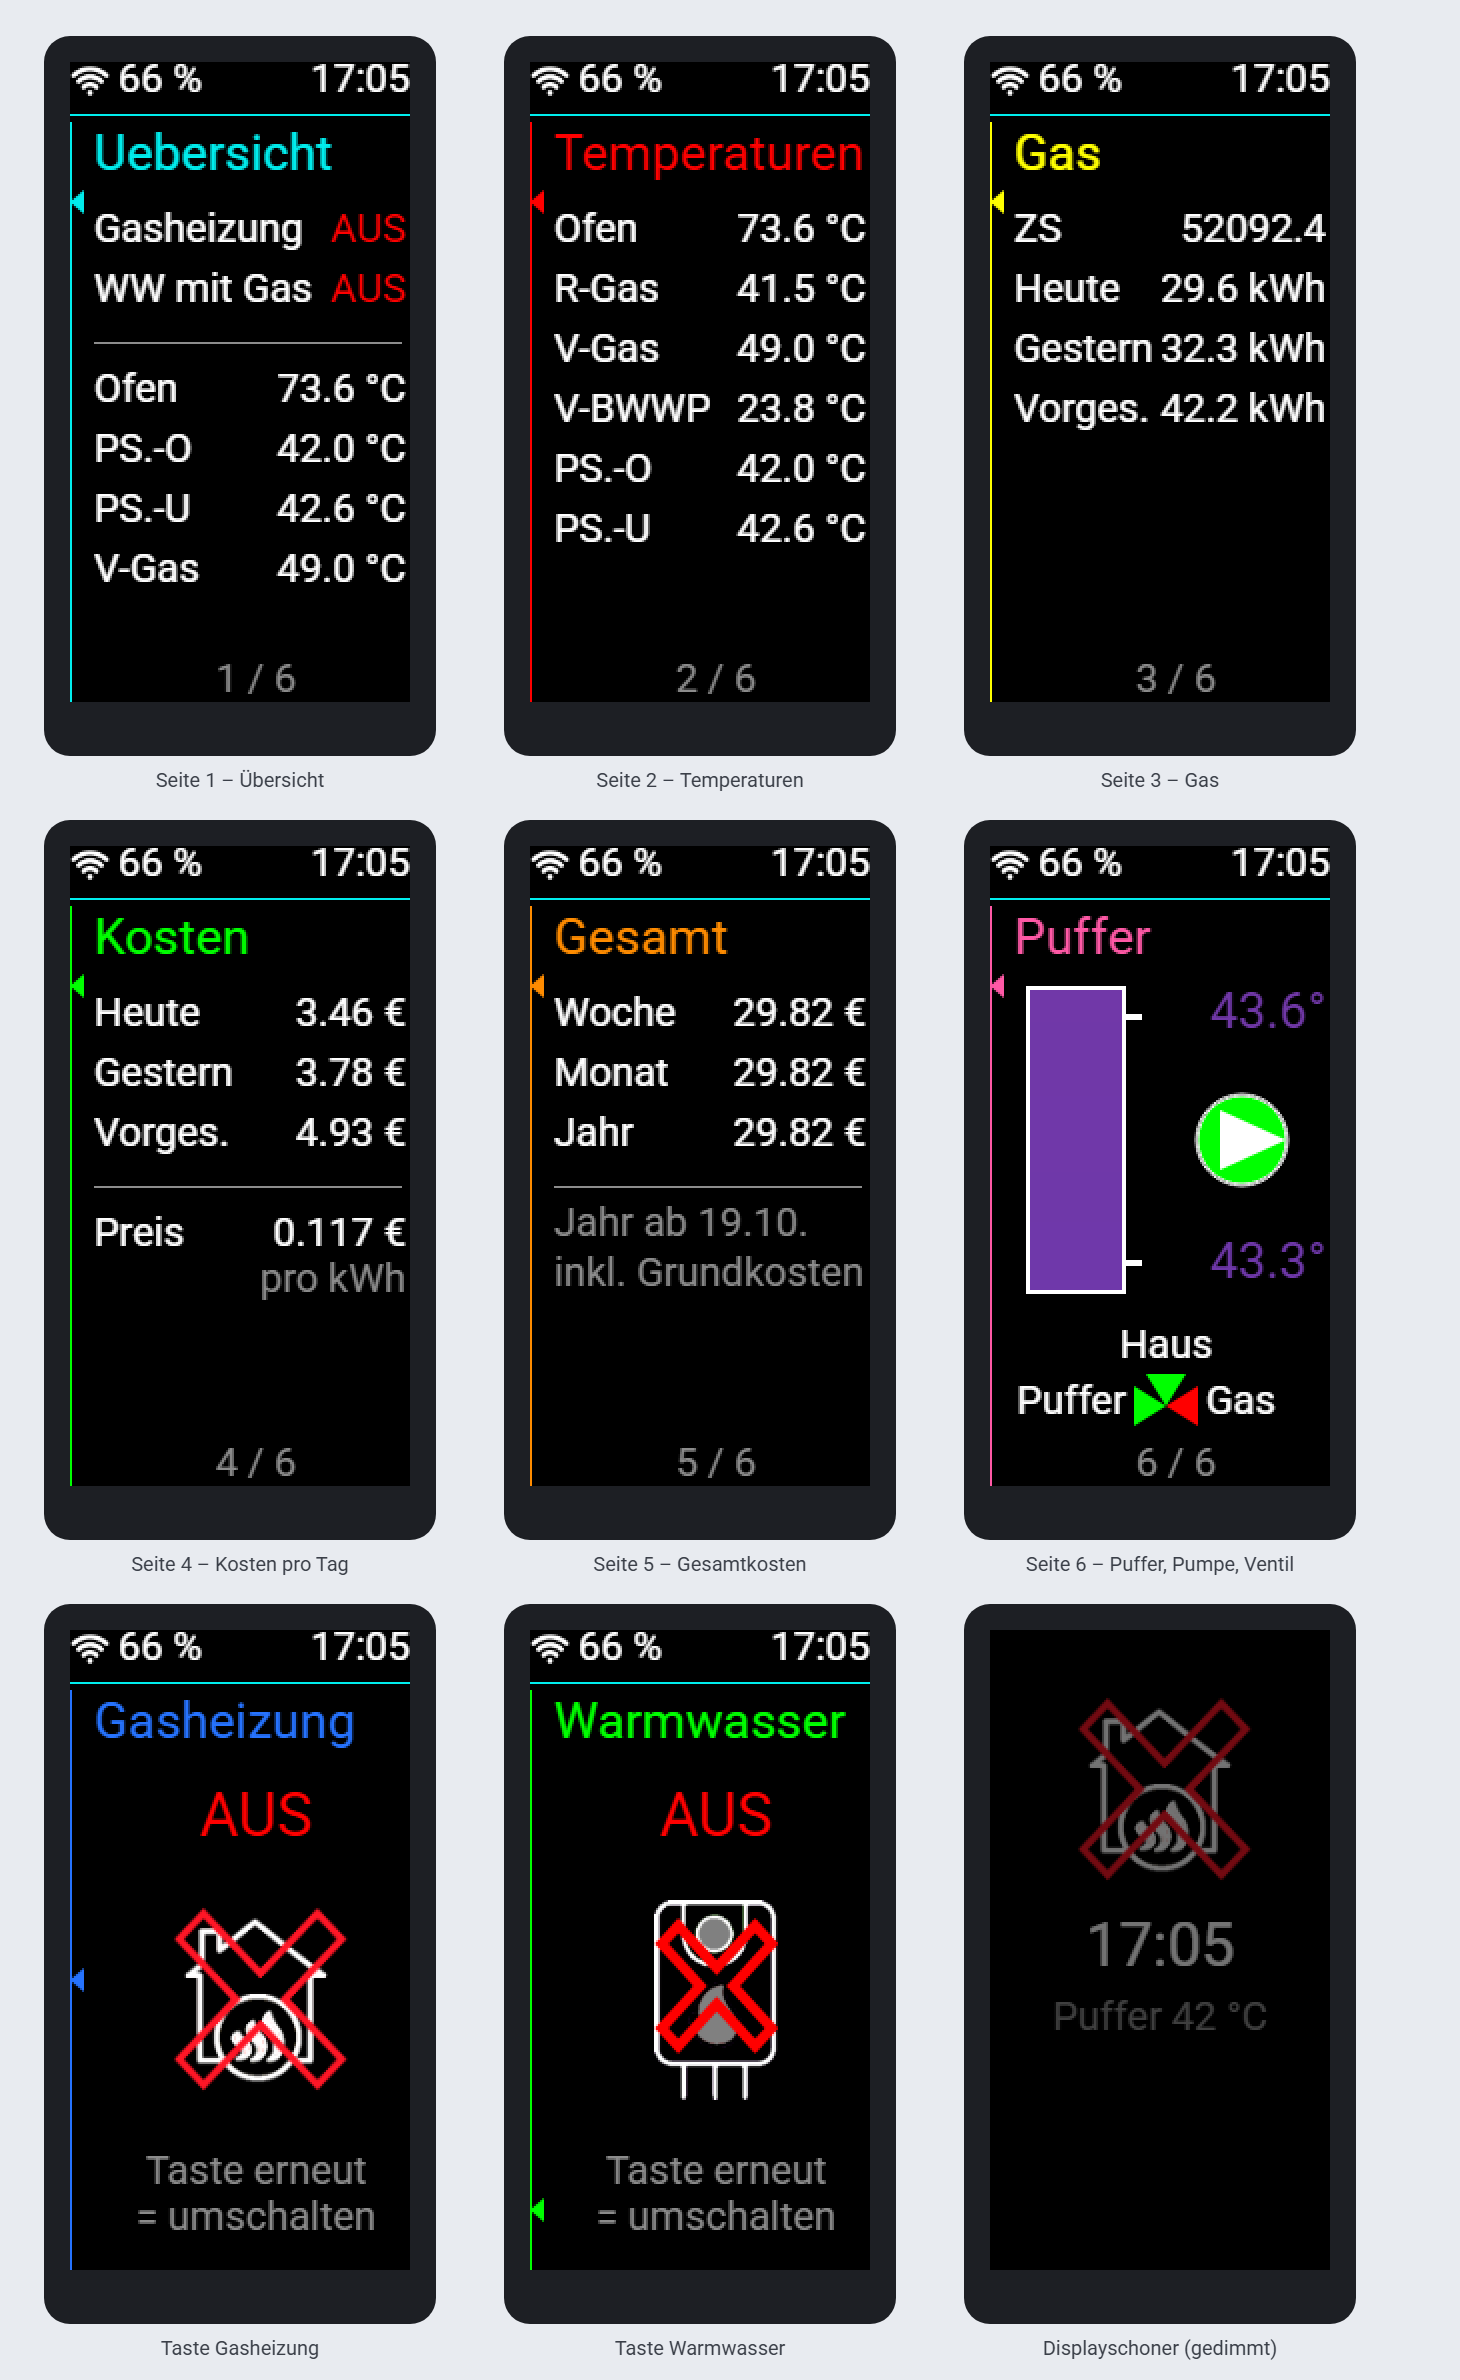
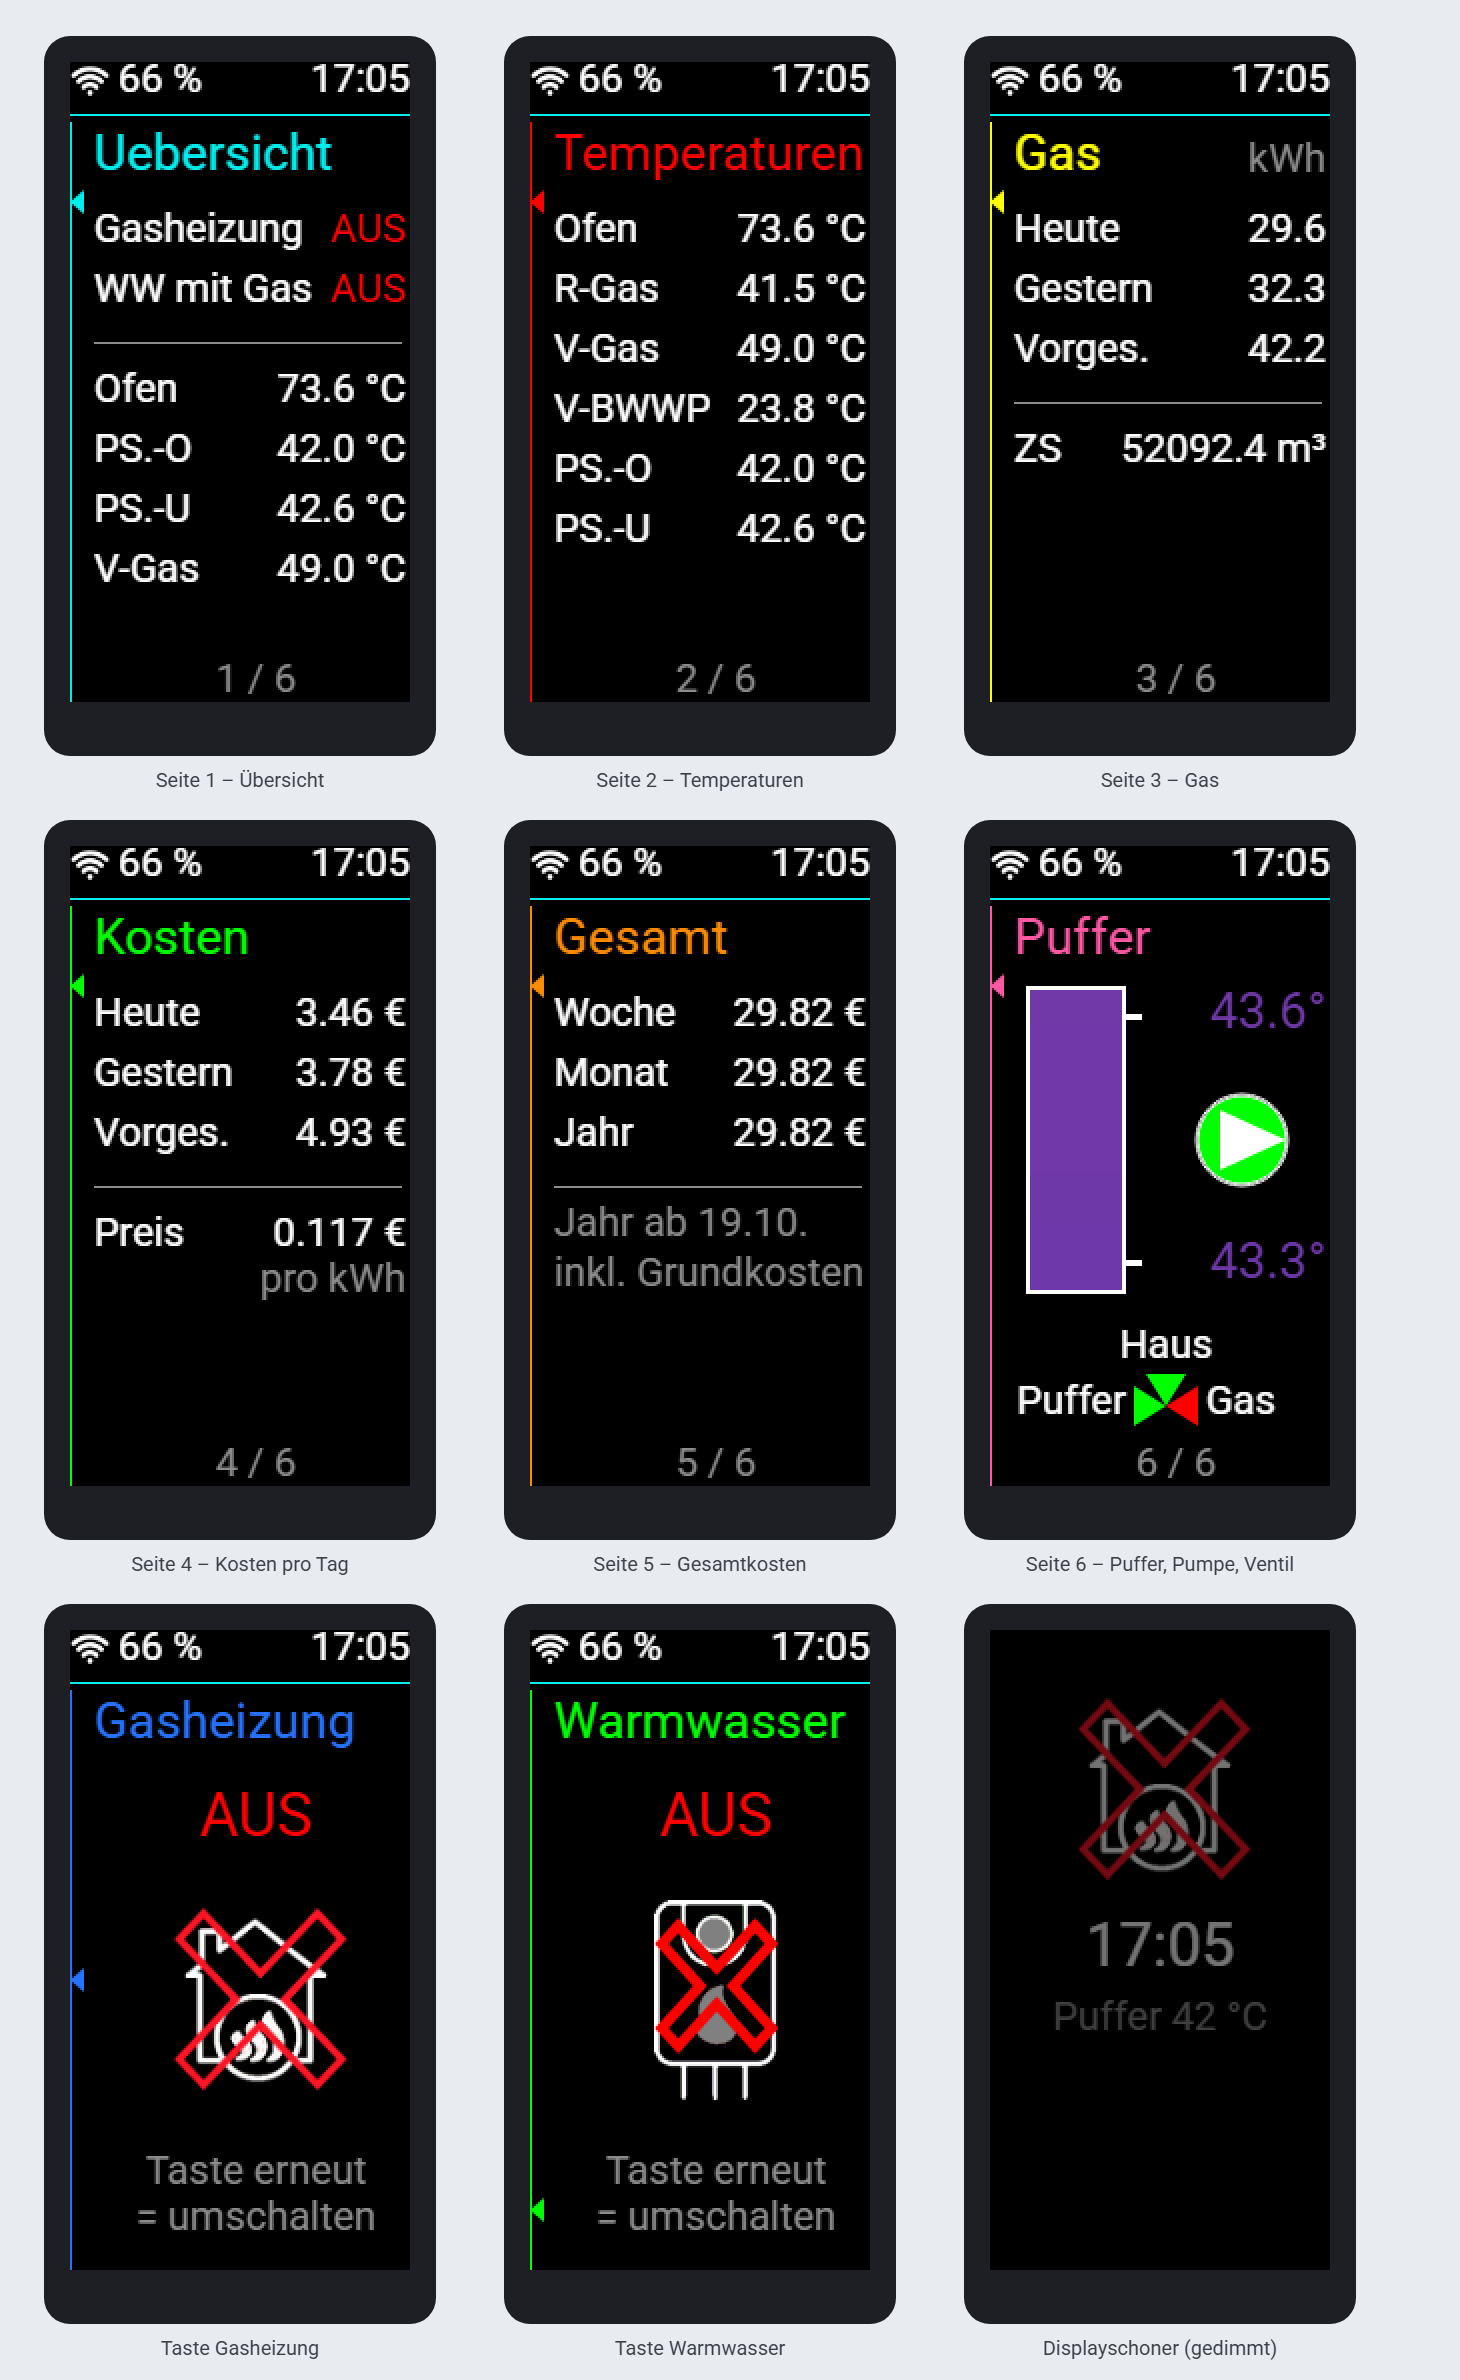
Display Buderus: Seite Gas mit kWh neben der Ueberschrift

Changed region(s): [[0.6781, 0.0622, 0.9247, 0.2176]]

diff --git a/Display Buderus/README.md b/Display Buderus/README.md
@@ -49,7 +49,7 @@ flowchart LR
 |---|---|
 | 1 Übersicht | Gasheizung EIN/AUS, Warmwasser mit Gas EIN/AUS, Ofen, Puffer oben/unten, Vorlauf Gas |
 | 2 Temperaturen | Ofen, Rücklauf Gas, Vorlauf Gas, Vorlauf BWWP, Puffer oben/unten |
-| 3 Gas | Zählerstand, Verbrauch heute/gestern/vorgestern in kWh |
+| 3 Gas | Verbrauch heute/gestern/vorgestern in kWh, darunter der Zählerstand in m³ |
 | 4 Kosten | Kosten heute/gestern/vorgestern = kWh × Gaspreis (rechnet der ESP), darunter der Gaspreis |
 | 5 Gesamt | Kosten Woche/Monat/Jahr inkl. Grundkosten (rechnet Home Assistant, siehe unten) |
 | 6 Puffer | Tank mit Farbverlauf nach echter Temperatur oben/unten (blau ≤ 30 °C, rot ≥ 70 °C), Pumpe Puffer → Haus (grün = an, rot = aus), 3-Wege-Ventil Puffer/Haus/Gas |
@@ -104,7 +104,7 @@ Der Gaszähler liefert nur Tageswerte, deshalb zählt Home Assistant die Zeiträ
 
 - **ESPHome 2026.10:** Das Display läuft mit dem eingebauten Treiber `mipi_spi` (Modell `T-DISPLAY-S3`) und dem Framework **ESP-IDF**. Die frühere externe Komponente `landonr/lilygo-tdisplays3-esphome` lässt sich mit aktuellen ESPHome-Versionen nicht mehr bauen.
 - **Nach einem OTA-Update mindestens eine Minute warten**, bevor man das Gerät neu startet: Erst dann gilt die neue Firmware als gut. Ein früher Neustart (oder ein Absturz) holt automatisch die alte Firmware zurück.
-- **Schrift mit €-Zeichen:** Gibt man bei einer Schrift `glyphs:` an, fällt der Standard-Zeichensatz weg – deshalb steht `glyphsets: [GF_Latin_Kernel]` mit dabei.
+- **Schrift mit € und ³:** Gibt man bei einer Schrift `glyphs:` an, fällt der Standard-Zeichensatz weg – deshalb steht `glyphsets: [GF_Latin_Kernel]` mit dabei.
 - **Anzeige Gasheizung:** `GAS_ANZEIGE_INVERTIERT` in der YAML legt fest, wie das Relais „Gas unterdruecken“ als EIN/AUS angezeigt wird. Die Steuerung selbst ändert das nicht.
 
 ## Dateien
